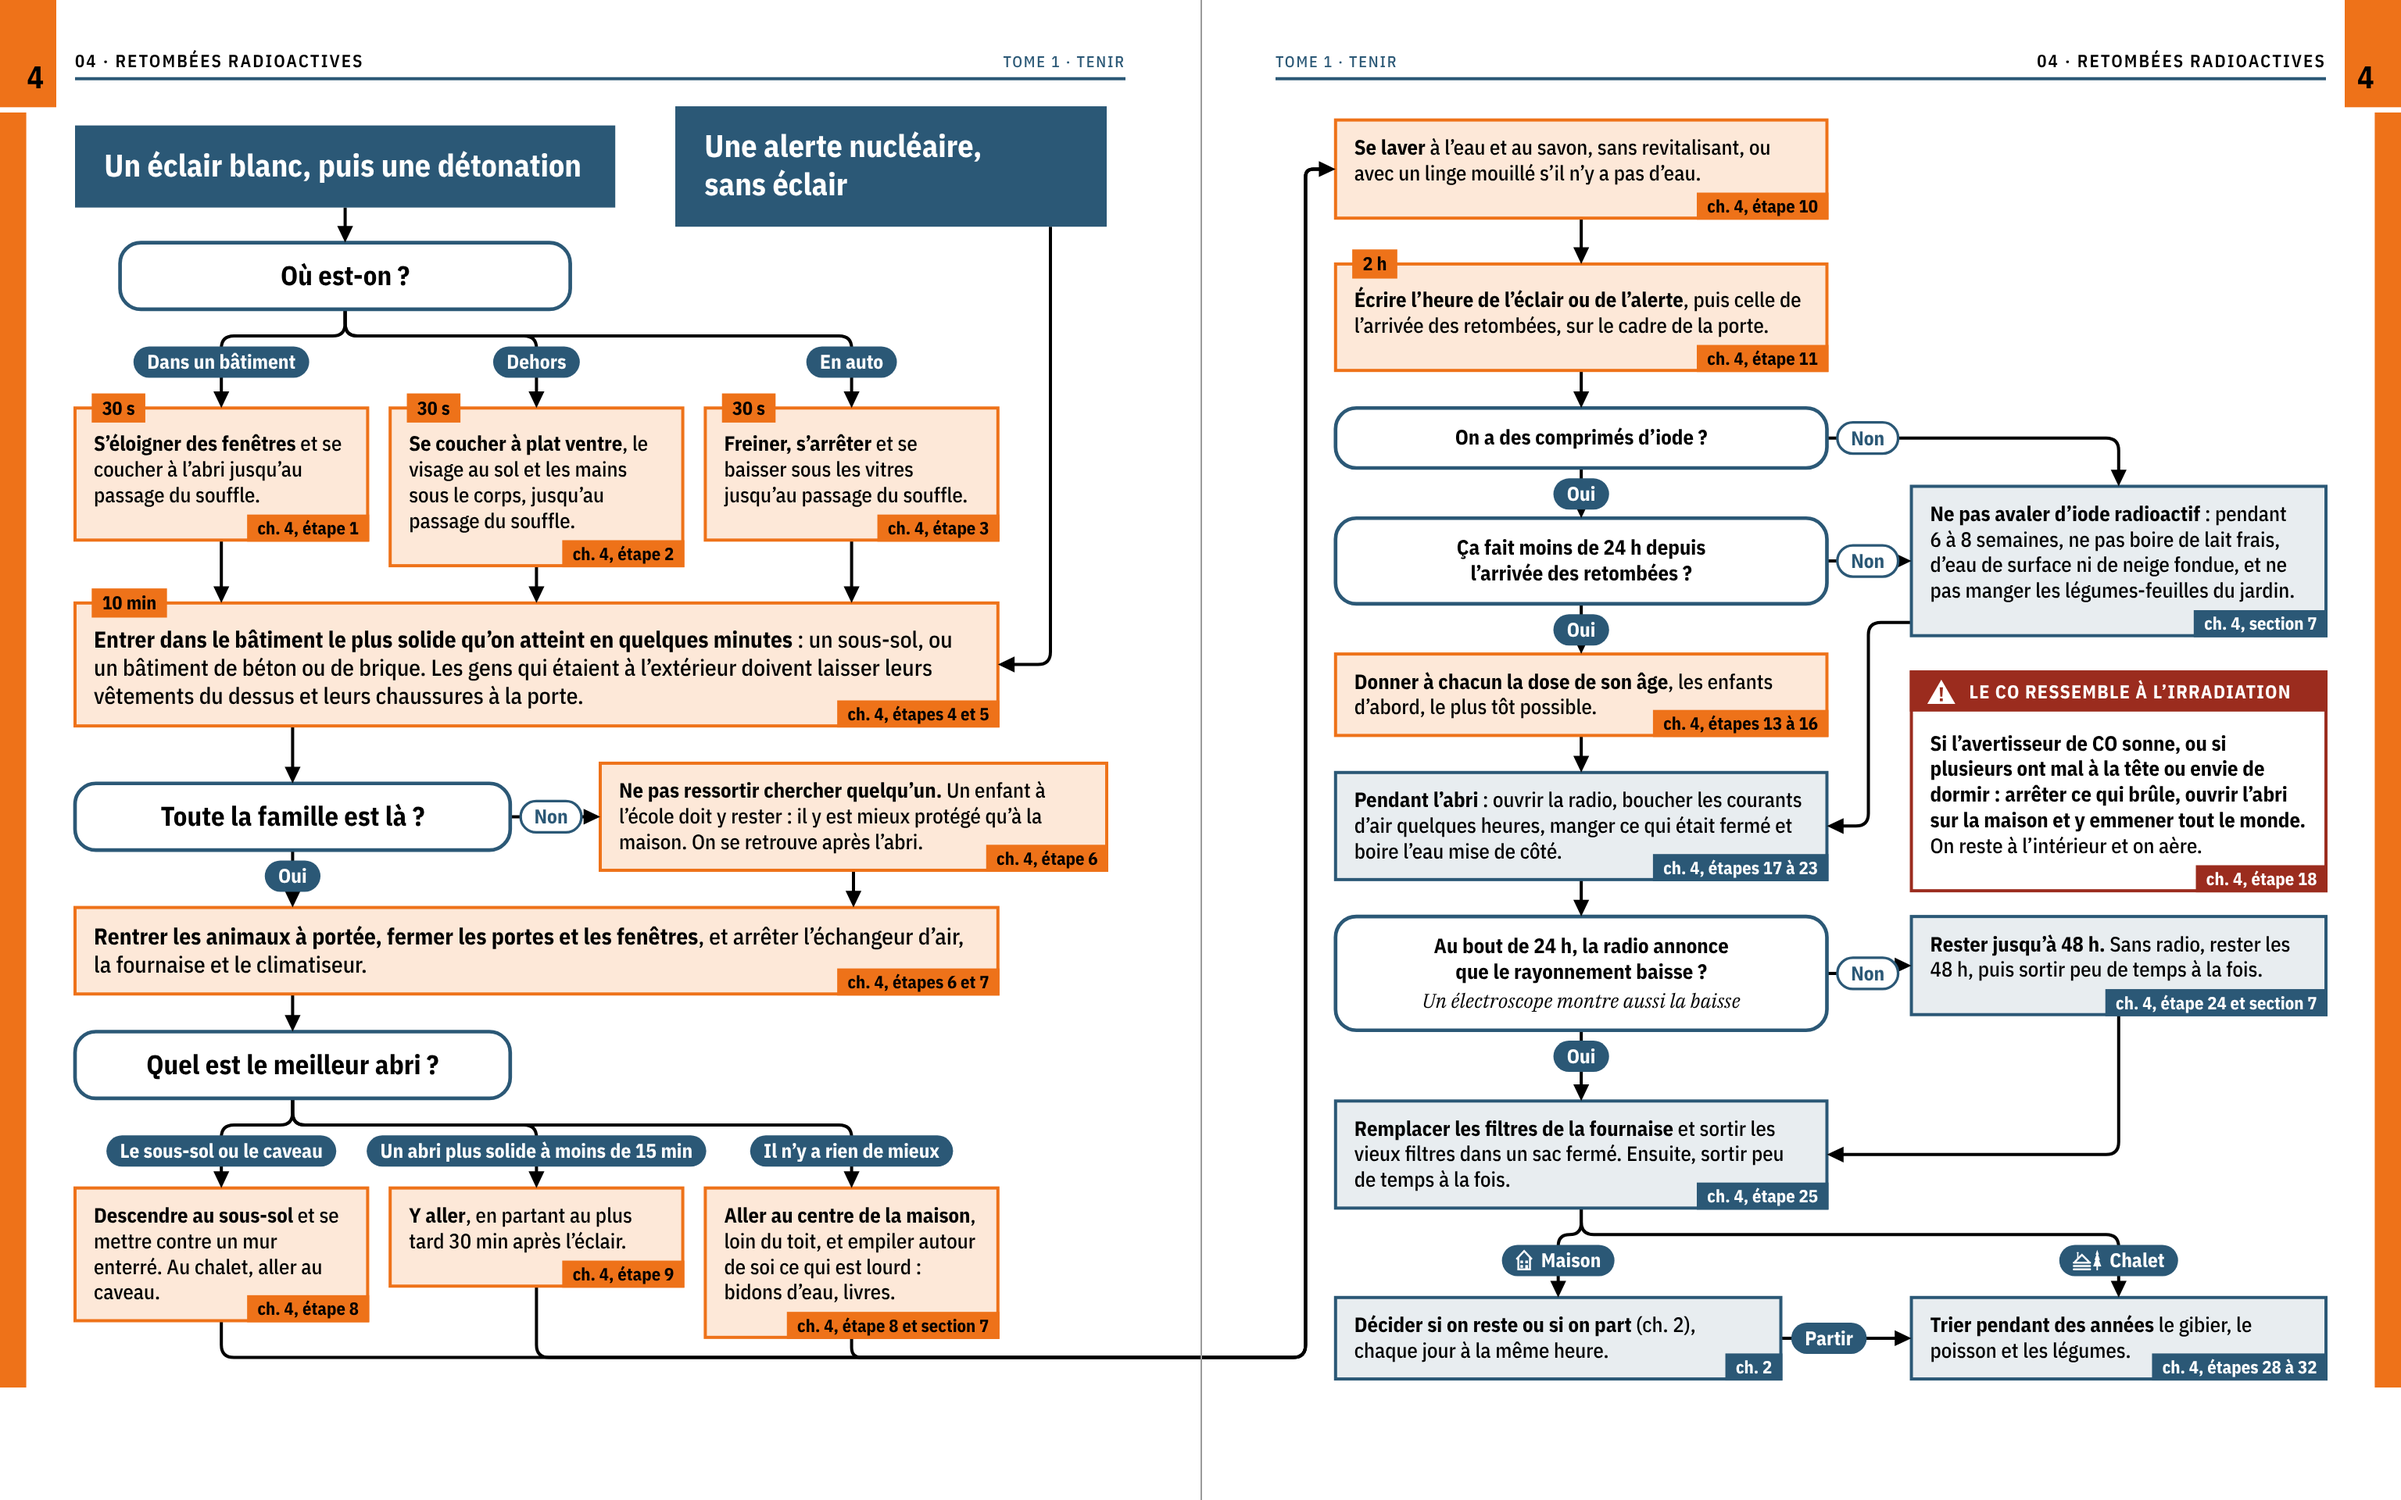
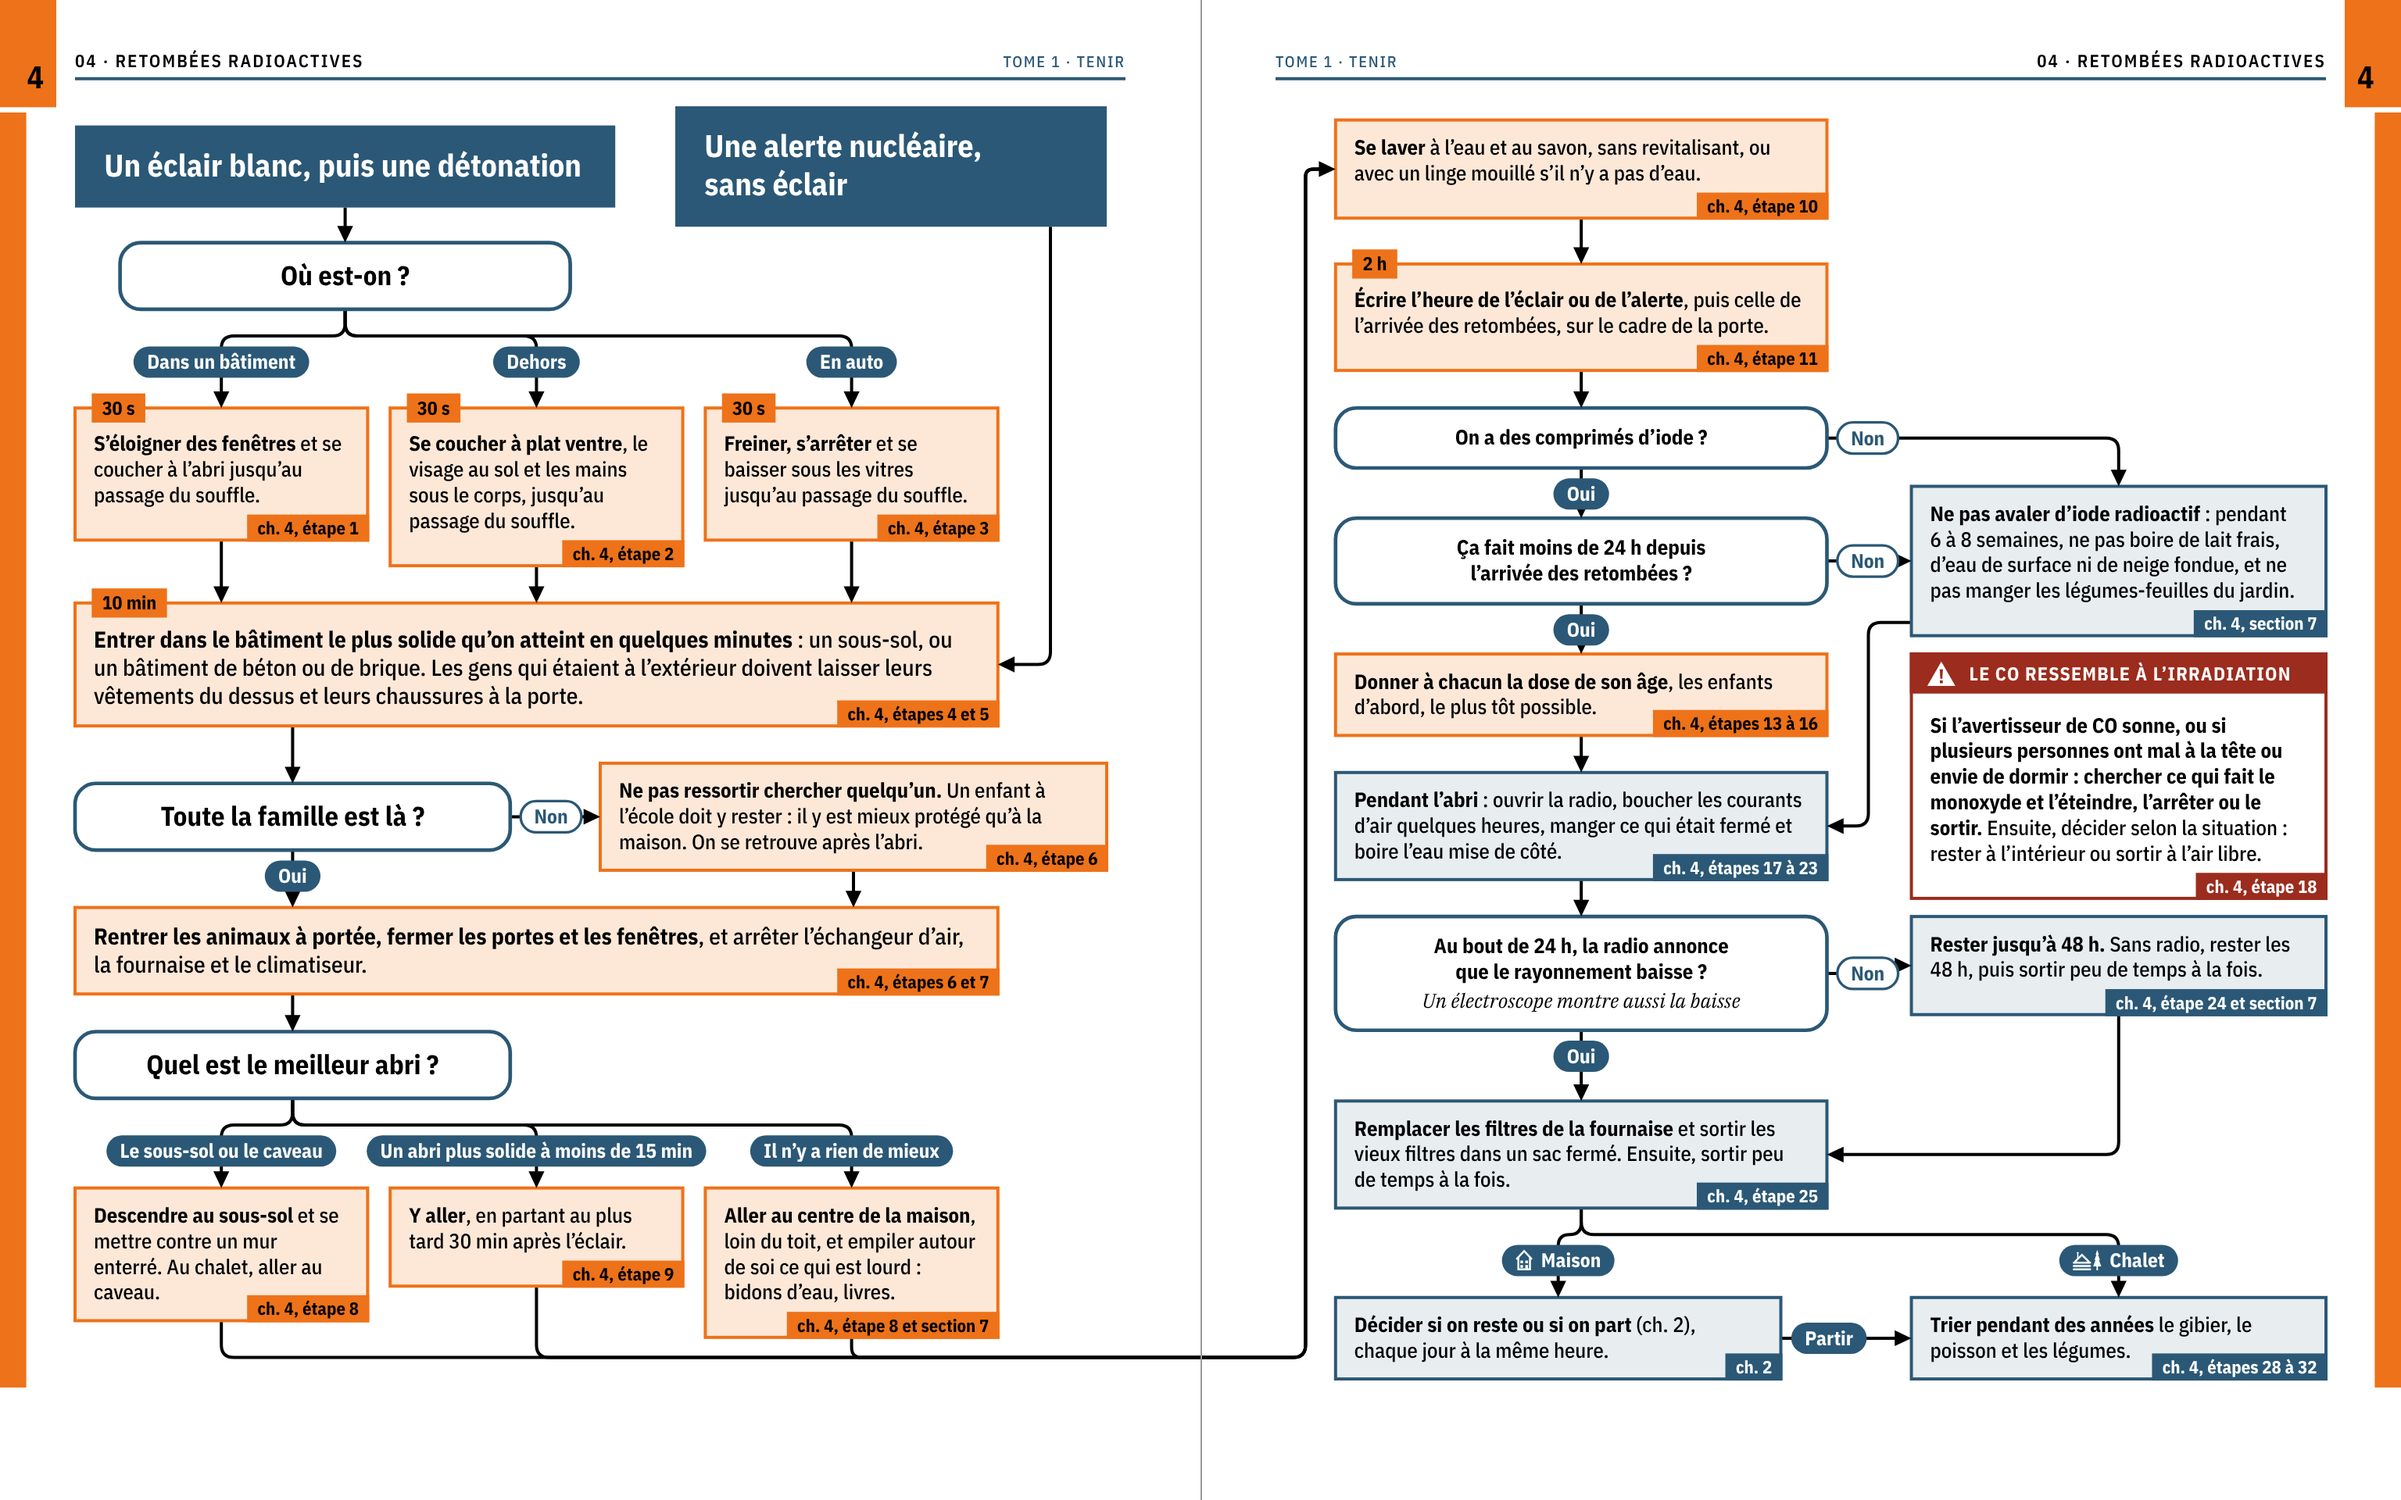
Couvertures des six tomes en mise en page C, avec leur image de titre ; miroir du ciel arrêté avant les arbres et les collines
Claude-Session: https://claude.ai/code/session_014xDY5FLxFXDJt3nYAYznSZ

Changed region(s): [[0.7812, 0.4375, 0.9688, 0.625]]

diff --git a/images/tomes/essais-ia/tome-1/couverture.py b/images/tomes/essais-ia/tome-1/couverture.py
@@ -170,9 +170,15 @@ def devant(v, k):
     if VARIANTES[v]['devant'] == 'chiffre':
         return (f'<div class="hd hd-b"><span>Le Manuel du Nord</span><span>Tome {k} sur 6</span></div>'
                 f'<div class="duo"><div class="num">{k}</div><h1 class="titre" data-fit data-haut=".hd-b">{titre}</h1></div>')
+    bas = CENTRE_BAS.get(k)
     return (f'<div class="marque">Le Manuel du Nord</div>'
-            f'<div class="centre"><div class="tome"><i></i><span>Tome {k}</span><i></i></div>'
+            f'<div class="centre"{f" style=\"height:{bas}in\"" if bas else ""}><div class="tome"><i></i><span>Tome {k}</span><i></i></div>'
             f'<h1 class="titre" data-fit data-haut=".marque" data-sommet=".tome">{titre}</h1></div>')
+
+
+# le bas du titre centré (variante C), en pouces depuis le haut du devant rogné, quand l'image du tome monte plus haut
+# que 3,95 po (tome 6 : la colline enneigée, sur laquelle le titre crème ne se lit pas)
+CENTRE_BAS = {6: 3.3}
 
 
 # ------------------------------------------------------------------ gabarit
@@ -395,9 +401,29 @@ def composer(v, m, img, pal, ppp):
         ch = L - ndi.grey_opening(L, size=(t, t))
         lignes = ch[:, cx0:].max(axis=1)
         r_hi = int(0.33 * rh) + int(np.argmin(lignes[int(0.33 * rh):int(0.39 * rh)]))   # au-dessus de la lune et des crêtes
+        # quand les collines montent plus haut (tome 6), le miroir s'arrête au-dessus de leur sommet : la première ligne
+        # où le ciel, débarrassé de ses étoiles, s'écarte de sa couleur
+        Lr = ndi.grey_closing(ndi.grey_opening(L, size=(t, t)), size=(t, t))
+        ciel_r = float(np.median(Lr[:int(0.1 * rh), cx0:cx0 + max(8, int(0.2 * rw))]))
+        ecarte = (np.abs(Lr[:, cx0:int(0.94 * rw)] - ciel_r) > 14).mean(axis=1) > 0.002
+        pres = np.nonzero(ecarte[int(0.15 * rh):])[0]
+        if len(pres):
+            lim = int(0.15 * rh) + int(pres[0]) - int(0.04 * ppp)
+            if lim < r_hi:
+                a_ = max(int(0.15 * rh), lim - int(0.05 * rh))
+                r_hi = a_ + int(np.argmin(lignes[a_:lim]))
         r_lo = int(np.argmin(lignes[:int(0.03 * rh)]))
         colonnes = ch[r_lo:r_hi].max(axis=0)
         c_hi = int(0.94 * rw) + int(np.argmin(colonnes[int(0.94 * rw):]))
+        # tout ce qui n'est pas le ciel (une épinette qui monte, la lune) ne passe pas au dos : les petites étoiles
+        # s'effacent par une ouverture, puis chaque colonne qui s'écarte du ciel arrête le miroir (tomes 4 et 6)
+        Lf = ndi.grey_opening(L[r_lo:r_hi], size=(t, t))
+        Lf = ndi.grey_closing(Lf, size=(t, t))
+        ciel_L = float(np.median(Lf[:, cx0:cx0 + max(8, int(0.2 * rw))]))
+        hors = (np.abs(Lf - ciel_L) > 14).mean(axis=0)
+        mauvais = np.nonzero(hors[cx0 + int(0.25 * rw):] > 0.004)[0]
+        if len(mauvais):
+            c_hi = min(c_hi, cx0 + int(0.25 * rw) + int(mauvais[0]) - int(0.06 * ppp))
         def aller_retour(z, a, b):            # a, a+1, … b-1, b-1, … a, a, … : miroir entre a et b
             p = b - a
             m_ = np.mod(z, 2 * p)

diff --git a/chapitres/04-retombees-radioactives.md b/chapitres/04-retombees-radioactives.md
@@ -172,7 +172,8 @@ y rester 24 à 48 heures, protéger la thyroïde avec des comprimés d'iode, pui
 17. **Ouvrir une radio à piles ou à manivelle dans l'abri, et la laisser ouverte.** On y apprend où va le
  panache, s'il y a un deuxième rejet et quand l'abri finit. Sans radio : section 7.
 18. {!co} **Boucher les courants d'air de la pièce d'abri pendant le passage du panache, quelques heures au plus.**
- - Avant de boucher, poser l'avertisseur de CO dans la pièce et appuyer sur son bouton d'essai.
+ - Avant de boucher, poser l'avertisseur de CO dans la pièce et appuyer sur son bouton d'essai. Au caveau, sous
+ 4,4 °C, on ne peut pas se fier à l'avertisseur : ne rien faire brûler dans le caveau.
  - Boucher avec ce qu'on a : du ruban sur le cadre des portes et des fenêtres, du plastique sur les vitres, un
  linge humide au bas des portes, un bouchon dans les prises d'air. Le bouchage arrête la poussière, pas le
  rayonnement : contre lui, il faut la masse autour de la pièce (étape 8).
@@ -182,8 +183,26 @@ y rester 24 à 48 heures, protéger la thyroïde avec des comprimés d'iode, pui
  « Ventiler la pièce d'abri ».
  - Les premiers signes du monoxyde (le mal de tête, la nausée, l'envie de dormir) ressemblent à ceux de
  l'irradiation, et on reste couché au lieu d'agir. Si l'avertisseur sonne, ou si plusieurs personnes ont mal à la
- tête ou envie de dormir en même temps : arrêter ce qui brûle, ouvrir la pièce d'abri sur le reste de la maison et
- y emmener tout le monde, sans sortir dehors, puis aérer (section 7).
+ tête ou envie de dormir en même temps, chercher d'abord la source du monoxyde (une flamme, une braise ou un
+ moteur) et l'éliminer. Éteindre la lampe, le fanal, le réchaud, la chaufferette et les chandelles. Arrêter le
+ moteur qui tourne dans le garage ou près de la maison. Mettre dehors ce qui brûle et qu'on ne peut pas éteindre,
+ comme un barbecue au charbon de bois.
+ - Si la source est le poêle à bois (de la fumée revient dans la maison, surtout quand le feu tombe en braise),
+ remboîter le tuyau s'il s'est déboîté, et donner de l'air au poêle (section 6). Ne pas fermer l'entrée d'air ni la
+ clé pour éteindre le feu : un feu qui manque d'air couve, et sa fumée fuit dans la maison même quand la porte du
+ poêle est fermée.
+ - Ensuite, décider selon la situation s'il faut rester à l'intérieur, en ouvrant la pièce d'abri sur le reste de
+ la maison et en l'aérant, ou sortir à l'air libre.
+ - Ce qui pousse à sortir : une personne est confuse, se réveille mal ou perd connaissance ; on ne trouve pas la
+ source, ou on ne peut pas l'éliminer ; le chiffre affiché par l'avertisseur ne baisse pas une fois la source
+ éliminée et la pièce ouverte. On peut quitter l'abri pour une personne dans cet état : sa vie est en jeu, comme
+ pour une blessure grave (étape 24). Pour sortir, se couvrir le nez et la bouche d'un linge ; en rentrant, laisser
+ ses vêtements du dessus et ses chaussures à l'entrée (étape 20).
+ - Ce qui pousse à rester : les retombées sont arrivées depuis peu, et une sortie fait recevoir le plus de
+ rayonnement dans les premières heures (étape 4) ; le panache passe encore, et on respire beaucoup moins d'iode
+ radioactif à l'intérieur (section 7, « Sans comprimés d'iode ») ; une fois la source éliminée, tout le monde est
+ réveillé et répond. Au sous-sol ou au caveau, sortir fait perdre beaucoup de protection ; dans une maison de bois
+ sans sous-sol, beaucoup moins (étapes 4 et 8).
 19. {!generatrice} **Laisser la génératrice arrêtée tant qu'on reste à l'abri.** Pour la faire tourner dehors, à
  6 m du bâtiment, quelqu'un doit sortir dans la poussière radioactive ; la faire tourner dans le garage, dans
  l'entrée ou sous l'auvent, même porte ouverte, remplit la maison de monoxyde. Après l'abri, la sortir à 6 m

diff --git a/images/tomes/couvertures/LISEZMOI.md b/images/tomes/couvertures/LISEZMOI.md
@@ -1,0 +1,17 @@
+# Les couvertures des six tomes (18 octobre 2026)
+
+Mise en page **C, « le ciel fait le tour »**, choisie par JP pour le tome 1, appliquée aux six tomes avec l'image de
+titre de chacun (`images/tomes/titre-tome-N.jpg`) : le titre centré sur le devant, le ciel de l'image recadré en
+miroir sur la tranche et la quatrième, aux mesures de Blurb de chaque tome (la tranche suit le nombre de pages).
+
+    python3 images/tomes/essais-ia/tome-1/couverture.py --tome N --variantes C --sortie images/tomes/couvertures
+
+Le tome 6 prend `fond-tome-6-sans-lune.jpg` (`--image`) : le croissant de lune de l'image touchait la fin du titre
+centré, qui est plus grand que sur la page de titre. Son titre est remonté (`CENTRE_BAS` du script) pour rester dans le
+ciel noir, au-dessus de la colline enneigée.
+
+Deux règles ajoutées au script pour les images des tomes 2 à 6 : le miroir du ciel s'arrête avant la première colonne
+qui n'est plus du ciel (les épinettes du tome 4 montaient sur le dos), et avant la première ligne où les collines
+commencent (le sommet enneigé du tome 6 faisait des traînées claires sur la quatrième).
+
+Planche : `les-six-couvertures.png`. À refaire à chaque changement d'image de titre ou du nombre de pages d'un tome.
